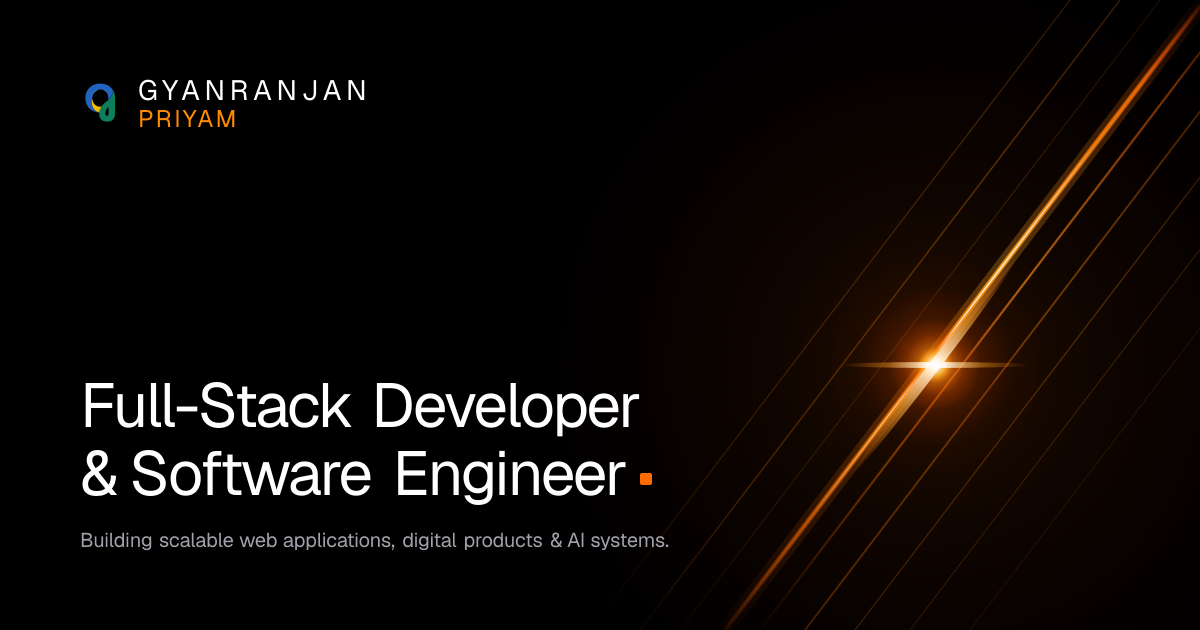
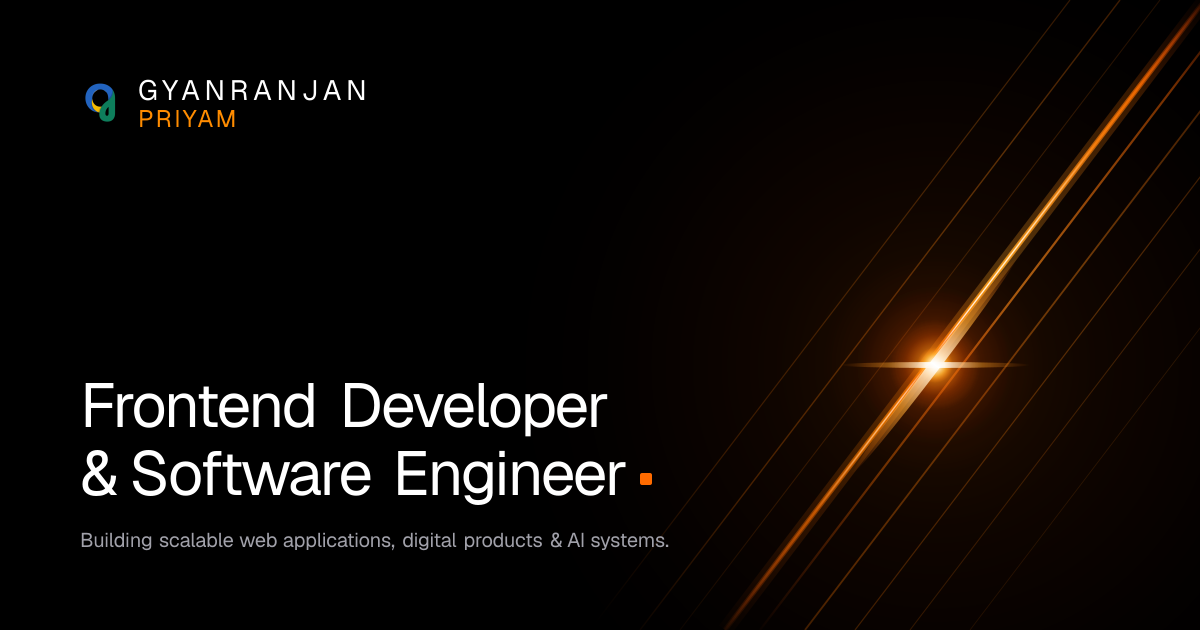
few changes

Changed region(s): [[0.0925, 0.6032, 0.5242, 0.6937]]

diff --git a/apps/web/data/projectsData.ts b/apps/web/data/projectsData.ts
@@ -39,7 +39,7 @@ const projects = [
       'On the participant side, students can browse events across categories like Hackathon, Robotics, and Gaming, register individually or as a team, upload payment proofs, and receive auto-generated QR codes. The organizer dashboard provides real-time stats, event CRUD with a Tiptap rich text editor, payment verification, accommodation management, Excel exports, PDF invoice generation, and an in-app support ticket system.',
       'Authentication is handled through Better Auth with role-based access control. Arcjet provides rate limiting and bot protection. Files are stored on AWS S3, and the entire platform is deployed on Vercel with Prisma ORM managing the PostgreSQL database.',
     ],
-    role: 'Full Stack Developer — Designed, developed, and deployed the entire platform end-to-end as the sole developer.',
+    role: 'Frontend Developer — Designed, developed, and deployed the entire platform end-to-end as the sole developer.',
     highlights: [
       'Handled 500+ registrations across 20+ events during the live fest',
       'Built a complete admin dashboard with real-time analytics and charts',
@@ -182,7 +182,7 @@ const projects = [
       'On the reader side, users can browse the latest blogs on the homepage feed, search by keywords, explore posts by tags, and engage with content through likes and comments. Every blog page features an auto-generated table of contents, syntax-highlighted code blocks, embedded images and videos, and a clean dark-mode reading experience optimized for technical content.',
       'Authors get a powerful floating-toolbar rich text editor powered by TipTap v3, supporting text formatting, image uploads to AWS S3, code blocks with syntax highlighting, tables, and video embeds. Authentication is handled through Better Auth, real-time interactions via Socket.io, rate limiting and bot protection via Arcjet, and the entire platform is deployed on Vercel with Prisma ORM managing the database.',
     ],
-    role: 'Full Stack Developer — Designed, developed, and deployed the entire platform end-to-end as the sole developer.',
+    role: 'Frontend Developer — Designed, developed, and deployed the entire platform end-to-end as the sole developer.',
     highlights: [
       'Built a floating-toolbar rich text editor supporting code, images, tables, and video',
       'Implemented auto-generated table of contents for every blog post',
@@ -361,7 +361,7 @@ const projects = [
       'The admin panel provides a complete course management workflow: rich text descriptions via Tiptap, drag-and-drop chapter/lesson reordering with dnd-kit, thumbnail and video uploads to AWS S3, and automatic Stripe product creation when pricing is set. Courses can be published, archived, or kept as drafts.',
       'Authentication supports email/password with verification, plus GitHub and Google OAuth, all through Better Auth with role-based access control. Arcjet handles rate limiting and bot protection. The platform is designed to mirror production-grade EdTech products with a focus on real payment flows and scalable architecture.',
     ],
-    role: 'Full Stack Developer — Sole developer responsible for architecture, implementation, and deployment of the entire platform.',
+    role: 'Frontend Developer — Sole developer responsible for architecture, implementation, and deployment of the entire platform.',
     highlights: [
       'End-to-end Stripe integration with webhook-driven auto-enrollment',
       'Drag-and-drop course builder with chapter and lesson reordering',
@@ -526,7 +526,7 @@ const projects = [
       'The admin suite supports multi-role access (Admin, Finance, Faculty), student record management across branches and departments, digital attendance, grade recording, and transcript generation. The finance module provides advanced payment filtering, Excel exports, QR-based UPI payments, and dual payment gateway support with Cashfree and Razorpay.',
       'The student portal gives each user a personalized dashboard with academic progress, payment history with receipt downloads, and real-time notifications via Socket.io. The entire frontend is built with React 19 and TypeScript using Vite, with Framer Motion animations and Recharts for interactive data visualization.',
     ],
-    role: 'Full Stack Developer — Designed and built the complete system from database schema to deployment, handling both frontend and backend architecture.',
+    role: 'Frontend Developer — Designed and built the complete system from database schema to deployment, handling both frontend and backend architecture.',
     highlights: [
       'Multi-role dashboard system (Admin, Finance, Faculty, Student)',
       'Dual payment gateway integration — Cashfree and Razorpay',
@@ -680,7 +680,7 @@ const projects = [
       'The POS module handles the complete sales cycle: product lookup via barcode scanner, cart management, multi-payment support (cash, online, bank transfer, cheque), and professional receipt generation. Inventory management provides real-time stock levels, reorder alerts, and product CRUD with category organization.',
       'On the backend, Express.js serves a REST API with JWT-based auth and role-based access (Admin, Manager, Salesperson). MongoDB handles data persistence with Mongoose ODM, and the ledger system tracks all financial transactions. The frontend is built with React 18, TypeScript, and Tailwind CSS, with date-fns for formatting and Lucide for iconography.',
     ],
-    role: 'Full Stack Developer — Sole developer responsible for designing the system architecture, building the POS workflow, and integrating the payment gateway.',
+    role: 'Frontend Developer — Sole developer responsible for designing the system architecture, building the POS workflow, and integrating the payment gateway.',
     highlights: [
       'Complete POS checkout flow with barcode scanner integration',
       'Razorpay payment gateway with multi-method support',

diff --git a/apps/web/app/layout.tsx b/apps/web/app/layout.tsx
@@ -44,18 +44,18 @@ const caveat = Caveat({
 export const metadata: Metadata = {
   metadataBase: new URL(SITE_URL),
   title: {
-    default: "Gyanranjan Priyam — Full Stack Developer Portfolio",
+    default: "Gyanranjan Priyam — Frontend Developer Portfolio",
     template: "%s — Gyanranjan Priyam",
   },
   description:
-    "Full Stack Developer working at the intersection of web development, app development, and AI/ML to build scalable digital products people actually use.",
+    "Frontend Developer working at the intersection of web development, app development, and AI/ML to build scalable digital products people actually use.",
   keywords: [
     "Gyanranjan Priyam",
-    "Full Stack Developer",
+    "Frontend Developer",
     "Web Developer",
     "Next.js Developer",
     "React Developer",
-    "Frontend Developer",
+    "Frontend Web Developer",
     "Software Engineer",
     "Portfolio",
     "JavaScript",
@@ -84,9 +84,9 @@ export const metadata: Metadata = {
     locale: "en_US",
     url: SITE_URL,
     siteName: "Gyanranjan Priyam",
-    title: "Gyanranjan Priyam — Full Stack Developer Portfolio",
+    title: "Gyanranjan Priyam — Frontend Developer Portfolio",
     description:
-      "Full Stack Developer working at the intersection of web development, app development, and AI/ML to build scalable digital products people actually use.",
+      "Frontend Developer working at the intersection of web development, app development, and AI/ML to build scalable digital products people actually use.",
     images: [
       {
         url: OG_IMAGE,
@@ -98,9 +98,9 @@ export const metadata: Metadata = {
   },
   twitter: {
     card: "summary_large_image",
-    title: "Gyanranjan Priyam — Full Stack Developer Portfolio",
+    title: "Gyanranjan Priyam — Frontend Developer Portfolio",
     description:
-      "Full Stack Developer working at the intersection of web development, app development, and AI/ML to build scalable digital products people actually use.",
+      "Frontend Developer working at the intersection of web development, app development, and AI/ML to build scalable digital products people actually use.",
     creator: "@gr_priyam",
     images: [OG_IMAGE],
   },
@@ -132,7 +132,7 @@ export default function RootLayout({
     "@type": "Person",
     name: "Gyanranjan Priyam",
     url: SITE_URL,
-    jobTitle: "Full Stack Developer & AI Engineer",
+    jobTitle: "Frontend Developer & AI Engineer",
     image: `${SITE_URL}/logo.png`,
     sameAs: [
       "https://github.com/gyanranjan-priyam",
@@ -141,7 +141,7 @@ export default function RootLayout({
       "https://instagram.com/gyanranjanpriyam",
     ],
     knowsAbout: [
-      "Full Stack Development",
+      "Frontend Development",
       "Next.js",
       "React",
       "TypeScript",
@@ -165,7 +165,7 @@ export default function RootLayout({
     name: "Gyanranjan Priyam — Portfolio",
     url: SITE_URL,
     description:
-      "Full Stack Developer working at the intersection of web development, app development, and AI/ML.",
+      "Frontend Developer working at the intersection of web development, app development, and AI/ML.",
     author: {
       "@type": "Person",
       name: "Gyanranjan Priyam",

diff --git a/apps/web/app/projects/page.tsx b/apps/web/app/projects/page.tsx
@@ -7,7 +7,7 @@ import { SITE_URL } from "@/lib/config";
 export const metadata: Metadata = {
   title: "Projects",
   description:
-    "Explore production-ready full stack projects, web apps, and developer tools built with Next.js, React, and TypeScript by Gyanranjan Priyam.",
+    "Explore production-ready frontend projects, web apps, and developer tools built with Next.js, React, and TypeScript by Gyanranjan Priyam.",
   keywords: [
     "Gyanranjan Priyam projects",
     "Gyanranjan Priyam portfolio",
@@ -17,7 +17,7 @@ export const metadata: Metadata = {
     "portfolio showcase",
     "web development portfolio",
     "frontend developer portfolio",
-    "full stack developer portfolio",
+    "frontend web developer portfolio",
     "developer portfolio India",
     "Indian developer portfolio",
     "software engineer portfolio",
@@ -30,7 +30,7 @@ export const metadata: Metadata = {
     "Tailwind CSS projects",
     "Prisma projects",
     "REST API projects",
-    "full stack projects",
+    "frontend projects",
     "web application projects",
     "responsive web projects",
     "web design portfolio",
@@ -51,7 +51,7 @@ export const metadata: Metadata = {
   openGraph: {
     title: "Projects — Gyanranjan Priyam",
     description:
-      "Explore production-ready full stack projects, web apps, and developer tools built with Next.js, React, and TypeScript by Gyanranjan Priyam.",
+      "Explore production-ready frontend projects, web apps, and developer tools built with Next.js, React, and TypeScript by Gyanranjan Priyam.",
     url: `${SITE_URL}/projects`,
     siteName: "Gyanranjan Priyam",
     locale: "en_US",
@@ -61,7 +61,7 @@ export const metadata: Metadata = {
     card: "summary_large_image",
     title: "Projects — Gyanranjan Priyam",
     description:
-      "Explore production-ready full stack projects, web apps, and developer tools built with Next.js, React, and TypeScript by Gyanranjan Priyam.",
+      "Explore production-ready frontend projects, web apps, and developer tools built with Next.js, React, and TypeScript by Gyanranjan Priyam.",
     creator: "@gr_priyam",
   },
 };

diff --git a/apps/web/app/llms-full.txt/route.ts b/apps/web/app/llms-full.txt/route.ts
@@ -10,7 +10,7 @@ export const revalidate = 3600;
 export async function GET() {
   const content = `# Gyanranjan Priyam — Full Technical Portfolio & Comprehensive Context
 
-> Full Stack Developer and AI Engineer specializing in Next.js 16, React 19, TypeScript, PostgreSQL, Prisma, Tailwind CSS, and AI/ML integrations.
+> Frontend Developer and AI Engineer specializing in Next.js 16, React 19, TypeScript, PostgreSQL, Prisma, Tailwind CSS, and AI/ML integrations.
 > Canonical URL: ${SITE_URL}
 > Blog: ${BLOG_URL}
 > GitHub: https://github.com/gyanranjan-priyam
@@ -23,7 +23,7 @@ export async function GET() {
 
 ## Executive Summary & Background
 
-Gyanranjan Priyam is an Electrical Engineering student at Government College of Engineering, Kalahandi, and a passionate Full-Stack Software Developer. He builds modern, high-performance web applications, developer starter kits, and AI-enabled platforms. He is also a technical writer, mentor, and former GeeksforGeeks Campus Mantri.
+Gyanranjan Priyam is an Electrical Engineering student at Government College of Engineering, Kalahandi, and a passionate Frontend Software Developer. He builds modern, high-performance web applications, developer starter kits, and AI-enabled platforms. He is also a technical writer, mentor, and former GeeksforGeeks Campus Mantri.
 
 His core strengths include:
 - Designing scalable web architectures using Next.js (App Router, Server Components) and React 19.
@@ -83,7 +83,7 @@ ${projects
     const highlights =
       "highlights" in p && Array.isArray((p as { highlights?: string[] }).highlights)
         ? (p as { highlights?: string[] }).highlights!.map((h) => `  - ${h}`).join("\n")
-        : "  - Production-ready full stack implementation";
+        : "  - Production-ready frontend implementation";
 
     const featuresList =
       "features" in p && Array.isArray((p as { features?: { category: string; items: string[] }[] }).features)

diff --git a/apps/web/app/page.tsx b/apps/web/app/page.tsx
@@ -18,7 +18,7 @@ const structuredData = [
     url: SITE_URL,
     name: "Gyanranjan Priyam — Portfolio",
     description:
-      "Full Stack Developer portfolio showcasing scalable web applications, React & Next.js projects, and open-source templates.",
+      "Frontend Developer portfolio showcasing scalable web applications, React & Next.js projects, and open-source templates.",
     publisher: {
       "@id": `${SITE_URL}/#person`,
     },
@@ -29,7 +29,7 @@ const structuredData = [
     "@type": "Person",
     "@id": `${SITE_URL}/#person`,
     name: "Gyanranjan Priyam",
-    jobTitle: "Full Stack Developer",
+    jobTitle: "Frontend Developer",
     url: SITE_URL,
     image: OG_IMAGE,
     email: "info@priyam.tech",
@@ -40,7 +40,7 @@ const structuredData = [
       "https://instagram.com/gyanranjanpriyam",
     ],
     description:
-      "Full Stack Developer working at the intersection of web development, app development, and AI/ML to build scalable digital products people actually use.",
+      "Frontend Developer working at the intersection of web development, app development, and AI/ML to build scalable digital products people actually use.",
     knowsAbout: [
       "React",
       "Next.js",
@@ -49,7 +49,7 @@ const structuredData = [
       "TypeScript",
       "MongoDB",
       "PostgreSQL",
-      "Full Stack Development",
+      "Frontend Development",
       "WebGL",
       "GSAP",
     ],

diff --git a/apps/blog/app/about/page.tsx b/apps/blog/app/about/page.tsx
@@ -9,7 +9,7 @@ import { AUTHOR_PORTFOLIO, SITE_URL } from "@/lib/consts";
 export const metadata: Metadata = {
   title: "About — Gyanranjan Priyam",
   description:
-    "Learn more about Gyanranjan Priyam - fullstack software engineer, architect, and tech writer.",
+    "Learn more about Gyanranjan Priyam - frontend software engineer, architect, and tech writer.",
   alternates: {
     canonical: `${SITE_URL}/about`,
   },
@@ -70,9 +70,9 @@ export default function AboutPage() {
               </h1>
 
               <p className="font-sans text-sm sm:text-base text-muted-foreground leading-relaxed mb-6">
-                A fullstack software engineer focused on building
+                A frontend software engineer focused on building
                 high-performance web systems, intuitive interfaces, and scalable
-                distributed architectures.
+                frontend architectures.
               </p>
 
               <div className="prose w-full">
@@ -84,7 +84,7 @@ export default function AboutPage() {
                 </p>
                 <ul>
                   <li>
-                    <strong>Fullstack Frameworks</strong>: Next.js, React Server
+                    <strong>Frontend Frameworks</strong>: Next.js, React Server
                     Components, Astro, TypeScript.
                   </li>
                   <li>

diff --git a/apps/blog/lib/consts.ts b/apps/blog/lib/consts.ts
@@ -1,7 +1,7 @@
 // Global Site & SEO Constants
 export const SITE_TITLE = "Priyam's Blog — Engineering, Architecture & Web Dev";
 export const SITE_DESCRIPTION =
-  "Technical deep dives, architectural insights, and modern fullstack engineering practices by Gyanranjan Priyam. Covering Next.js, React, Web Security, System Design, and Performance Optimization.";
+  "Technical deep dives, architectural insights, and modern frontend engineering practices by Gyanranjan Priyam. Covering Next.js, React, Web Security, System Design, and Performance Optimization.";
 export const SITE_URL = "https://blogs.priyam.tech";
 export const AUTHOR_NAME = "Gyanranjan Priyam";
 export const AUTHOR_TWITTER = "@gr_priyam";
@@ -13,7 +13,7 @@ export const GLOBAL_SEO_KEYWORDS = [
   "Priyam Blog",
   "Priyam Log",
   "Software Engineering Blog",
-  "Fullstack Web Development",
+  "Frontend Web Development",
   "Next.js 16",
   "Next.js Tutorials",
   "React 19 Server Components",
@@ -49,4 +49,7 @@ export const GLOBAL_SEO_KEYWORDS = [
   "CodeBreakers GCE Kalahandi",
   "GCE Kalahandi",
   "Government College of Engineering Kalahandi, Bhawanipatna",
+  "From the Console to the Classroom: My Journey as CodeBreakers’ First President",
+  "codebreakers gce kalahandi",
+  "When Code Meets Curriculum The Unspoken Grind of Being a Student and a Developer",
 ];

diff --git a/apps/web/app/about.md/route.ts b/apps/web/app/about.md/route.ts
@@ -8,7 +8,7 @@ export const revalidate = 3600;
 export async function GET() {
   const content = `# About Gyanranjan Priyam
 
-> Electrical Engineer by degree, Full-Stack Developer and AI Engineer by passion.
+> Electrical Engineer by degree, Frontend Developer and AI Engineer by passion.
 
 - Website: ${SITE_URL}
 - Blog: ${BLOG_URL}
@@ -22,7 +22,7 @@ export async function GET() {
 
 ## Bio & Background
 
-I am Gyanranjan Priyam, a software engineer and electrical engineering student at Government College of Engineering, Kalahandi. I specialize in full-stack web development, scalable cloud architecture, and AI-enabled software solutions.
+I am Gyanranjan Priyam, a software engineer and electrical engineering student at Government College of Engineering, Kalahandi. I specialize in frontend web development, modern user interfaces, and AI-enabled software solutions.
 
 I have led community initiatives as a GeeksforGeeks Campus Mantri, mentored fellow student developers, built production-grade web applications handling thousands of users, and contributed actively to open-source projects including the Google Gemini CLI ecosystem.
 

diff --git a/apps/blog/app/about.md/route.ts b/apps/blog/app/about.md/route.ts
@@ -15,14 +15,14 @@ export async function GET() {
 
 ## Introduction
 
-Hi, I'm Gyanranjan Priyam — a fullstack software engineer focused on building high-performance web systems, intuitive user interfaces, and scalable distributed architectures.
+Hi, I'm Gyanranjan Priyam — a frontend software engineer focused on building high-performance web systems, intuitive user interfaces, and scalable frontend architectures.
 
 ## About This Blog
 
 Priyam's Blog is a publication dedicated to technical deep dives, architectural case studies, performance benchmarks, and real-world software engineering practices.
 
 ### Topics Covered:
-- **Fullstack Frameworks**: Next.js 16, React 19 Server Components, TypeScript.
+- **Frontend Frameworks**: Next.js 16, React 19 Server Components, TypeScript.
 - **Monorepo Systems**: Turborepo, Bun workspaces, shared design systems.
 - **Motion & UI Engineering**: Tailwind CSS, accessible components, micro-interactions.
 - **Databases & APIs**: PostgreSQL, Prisma ORM, REST, GraphQL.

diff --git a/apps/web/components/sections/hero.tsx b/apps/web/components/sections/hero.tsx
@@ -181,7 +181,7 @@ export function HeroSection() {
               </span>
               <span>—</span>
               <WordRotate
-                words={["Full-stack Developer", "Electrical Engineer", "Open source Enthusiast"]}
+                words={["Frontend Developer", "Electrical Engineer", "Open source Enthusiast"]}
                 duration={2800}
                 className="font-medium"
               />
@@ -196,7 +196,7 @@ export function HeroSection() {
       <BlurFade delay={0.2} direction="up">
         <div className="border-x border-t border-border rounded-t-xl p-4 sm:p-5 bg-card/10 space-y-2">
           <p className="text-[14px] leading-relaxed text-muted-foreground font-mono">
-            Electrical Engineer by degree, Full-Stack Developer by passion. I
+            Electrical Engineer by degree, Frontend Developer by passion. I
             build scalable digital products, explore AI/ML integrations, and
             contribute to open-source software.
           </p>

diff --git a/apps/web/app/llms.txt/route.ts b/apps/web/app/llms.txt/route.ts
@@ -9,9 +9,9 @@ export const revalidate = 3600;
 export async function GET() {
   const formatDescription = (descriptionParts: string[]) => descriptionParts.join(" ");
 
-  const content = `# Gyanranjan Priyam — Full Stack Developer & AI Engineer
+  const content = `# Gyanranjan Priyam — Frontend Developer & AI Engineer
 
-> Full Stack Developer and AI Engineer specializing in Next.js, React, TypeScript, Node.js, and AI/ML integrations. Building scalable products, modern web experiences, and developer tools.
+> Frontend Developer and AI Engineer specializing in Next.js, React, TypeScript, Node.js, and AI/ML integrations. Building scalable products, modern web experiences, and developer tools.
 
 - Canonical URL: ${SITE_URL}
 - Blog: ${BLOG_URL}

diff --git a/apps/web/config/site.ts b/apps/web/config/site.ts
@@ -8,14 +8,14 @@ export const SITE_INFO = {
   url: SITE_URL,
   ogImage: `${SITE_URL}/opengraph-image`,
   description:
-    "Full Stack Developer working at the intersection of web development, app development, and AI/ML to build scalable digital products people actually use.",
+    "Frontend Developer working at the intersection of web development, app development, and AI/ML to build scalable digital products people actually use.",
   keywords: [
     "Gyanranjan Priyam",
-    "Full Stack Developer",
+    "Frontend Developer",
     "Web Developer",
     "Next.js Developer",
     "React Developer",
-    "Frontend Developer",
+    "Frontend Web Developer",
     "Software Engineer",
     "Portfolio",
     "JavaScript",
